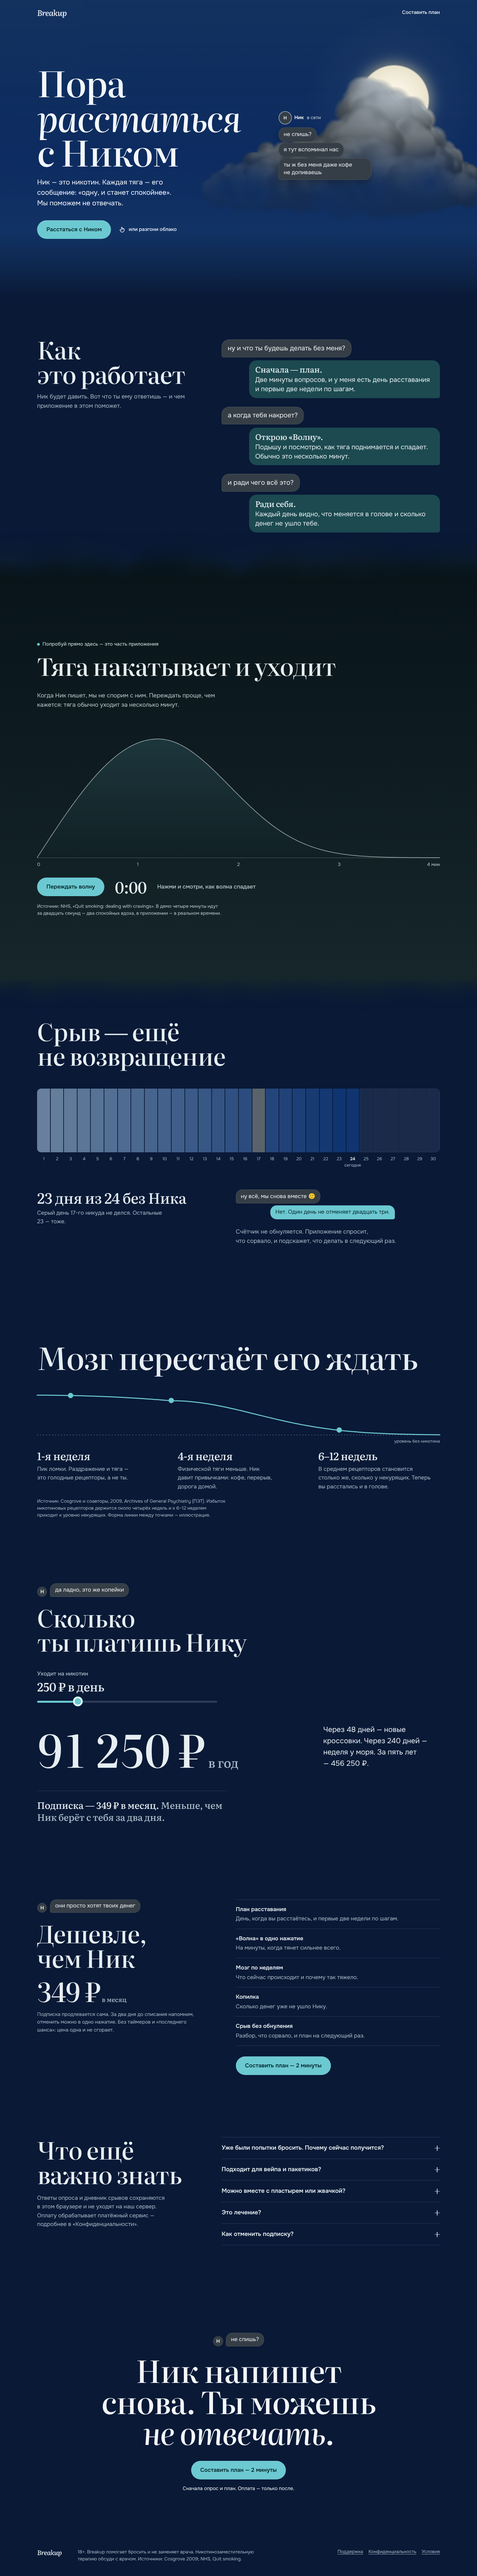
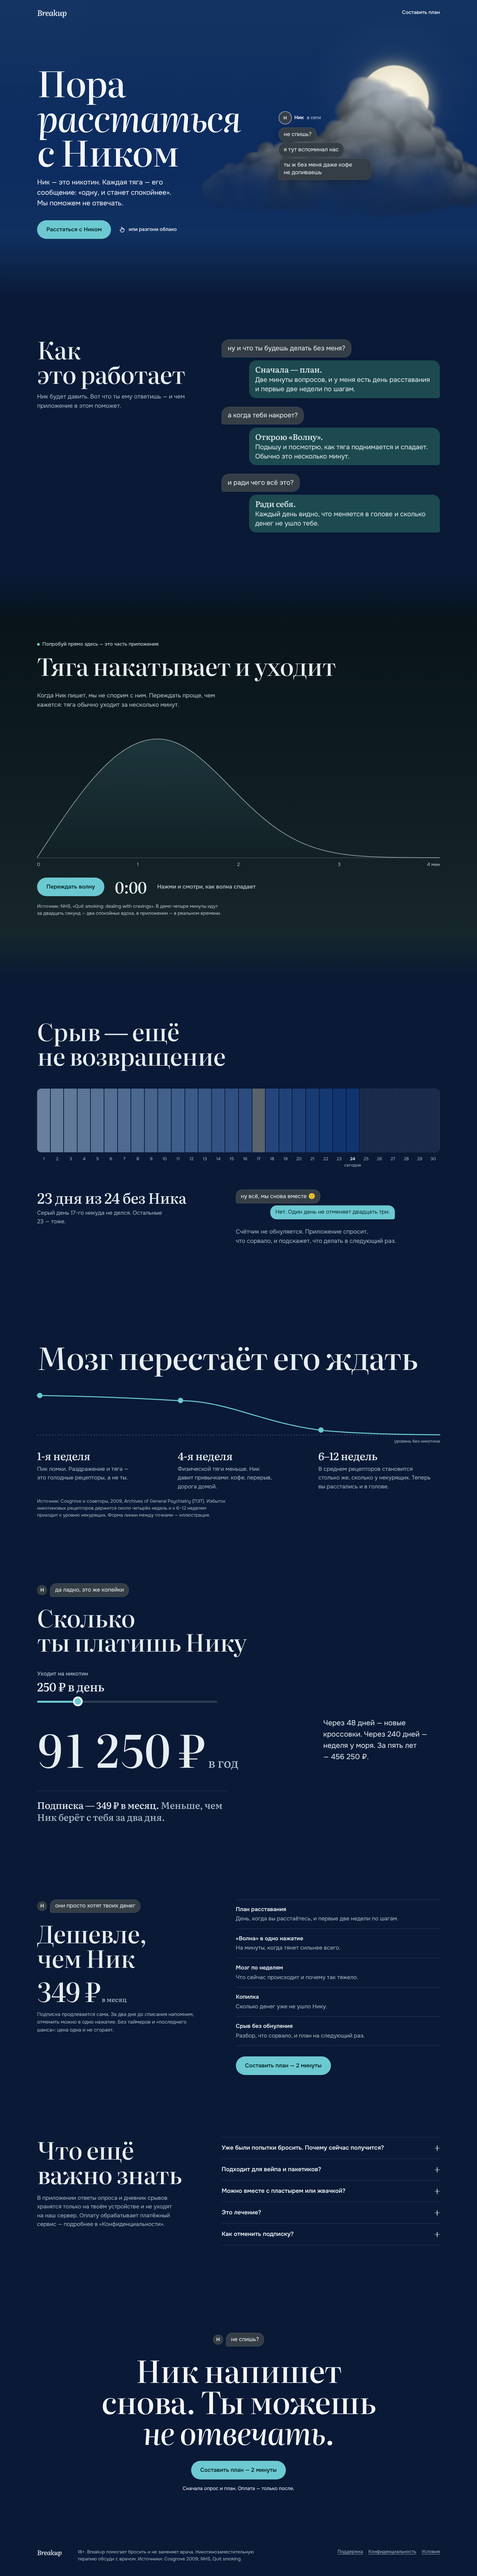
Update v9 review renders
Claude-Session: https://claude.ai/code/session_01CKqe4UyzFgn5AFv8yWGEaJ

diff --git a/design/directions/v8.html b/design/directions/v8.html
@@ -191,7 +191,7 @@ header.top .wrap{display:flex;justify-content:space-between;align-items:center;h
 .rv.seen{opacity:1;transform:none}
 
 /* Ник вклинивается в разговор: реплика с именем, сначала «печатает» */
-.nick-say{display:flex;align-items:flex-end;gap:.55rem;margin-bottom:1.5rem;opacity:0;transform:translateY(6px);transition:opacity .22s var(--ease-out),transform .22s var(--ease-out)}
+.nick-say{display:flex;align-items:center;gap:.55rem;margin-bottom:1.5rem;opacity:0;transform:translateY(6px);transition:opacity .22s var(--ease-out),transform .22s var(--ease-out)}
 .nick-say.on{opacity:1;transform:none}
 .nick-say .av{width:1.9rem;height:1.9rem;font-size:.9375rem;box-shadow:none}
 .nick-say .msg{background:var(--nick);color:var(--nick-text);border-radius:1.2rem 1.2rem 1.2rem .35rem;padding:.55rem .95rem;font-size:1.0625rem;line-height:1.35;box-shadow:inset 0 0 0 1px var(--nick-ring);min-height:2.5rem;display:flex;align-items:center}
@@ -216,7 +216,7 @@ input[type=range]:focus-visible::-moz-range-thumb{box-shadow:0 0 0 2px var(--sky
 /* ── Как это работает ── */
 .how-h{max-width:18ch}
 .how-grid{display:grid;grid-template-columns:minmax(0,5fr) minmax(0,7fr);gap:2.5rem clamp(2.5rem,6vw,6rem);align-items:start}
-.how-side{position:sticky;top:6rem}
+.how-side{position:sticky;top:6rem;align-self:start}
 .talk{display:flex;flex-direction:column;gap:.6rem;padding-top:.5rem}
 @media (max-width:860px){.how-grid{grid-template-columns:minmax(0,1fr)}.how-side{position:static}}
 .talk p{max-width:min(36rem,88%);padding:.8rem 1.15rem;font-size:clamp(1.0625rem,1.4vw,1.25rem);line-height:1.4;text-wrap:pretty}
@@ -229,10 +229,8 @@ input[type=range]:focus-visible::-moz-range-thumb{box-shadow:0 0 0 2px var(--sky
 .steps p{color:var(--muted);margin-top:.6rem;max-width:22rem;text-wrap:pretty}
 
 /* ── Волна ── */
-.calm{color:var(--calm-text);position:relative;background:linear-gradient(in oklab 180deg,var(--storm-top),var(--storm-low));padding-block:clamp(9rem,14vw,12rem)}
+.calm{color:var(--calm-text);position:relative;background:linear-gradient(in oklab 180deg,var(--sky-wash) 0,var(--storm-top) clamp(7rem,10vw,10rem),var(--storm-low) calc(100% - clamp(7rem,10vw,10rem)),var(--sky-wash) 100%);padding-block:clamp(9rem,14vw,12rem)}
 .calm .sub,.calm .src{color:var(--calm-muted)}
-.bank{position:absolute;left:0;right:0;bottom:calc(100% - 1.5rem);width:100%;height:10rem;pointer-events:none;display:block}
-.bank-out{bottom:auto;top:calc(100% - 1.5rem);height:7rem}
 .wave-head{display:grid;gap:1.25rem}.wave-head .sub{max-width:34rem}
 .try{display:inline-flex;align-items:center;gap:.5rem;font-size:.9375rem;font-weight:500;color:var(--calm-muted);margin-bottom:1rem}
 .try::before{content:"";width:.5rem;height:.5rem;border-radius:50%;background:var(--calm-line)}
@@ -292,7 +290,7 @@ input[type=range]:focus-visible::-moz-range-thumb{box-shadow:0 0 0 2px var(--sky
 .year .per{font-size:.28em;letter-spacing:-.01em;margin-left:.3em;color:var(--muted)}
 .year-row{display:grid;grid-template-columns:auto minmax(0,22rem);gap:1rem clamp(2rem,4vw,4rem);align-items:end}
 @media (max-width:1100px){.year-row{grid-template-columns:minmax(0,1fr)}}
-.year-note{font-size:clamp(1.125rem,1.6vw,1.375rem);margin-top:1.25rem;max-width:40rem;text-wrap:pretty}
+.year-note{font-size:clamp(1.125rem,1.6vw,1.375rem);margin:0 0 clamp(.6rem,1.4vw,1.4rem);align-self:end;max-width:40rem;text-wrap:pretty}
 .bridge{margin-top:clamp(2.5rem,5vw,4rem);padding-top:1.5rem;border-top:1px solid var(--rule);font:500 clamp(1.375rem,2.1vw,1.75rem)/1.3 var(--f-display);letter-spacing:-.01em;max-width:36rem;text-wrap:pretty}
 .bridge em{font-style:normal;color:var(--muted)}
 
@@ -410,10 +408,8 @@ dialog.plan.in::backdrop{background:rgba(6,36,63,.28)}
   .actions > div{flex-direction:column;align-items:flex-start;gap:.75rem}
   .b{font-size:.9375rem;padding:.5rem .8rem;max-width:80%}
   .wave-head,.slip-row,.price,.faq-grid{grid-template-columns:minmax(0,1fr)}
-  .bank{height:6rem;bottom:calc(100% - 1rem)}
-  .bank-out{bottom:auto;top:calc(100% - 1rem);height:4.5rem}
-  .calm{padding-bottom:6rem}
-  .calm{padding-top:6rem}
+  .calm{padding-bottom:8.5rem}
+  .calm{padding-top:8.5rem}
   .steps,.weeks{grid-template-columns:minmax(0,1fr);gap:2rem}
   .wave-ctl{grid-template-columns:auto 1fr}
   .wave-ctl .ride{grid-column:1/-1;order:3;width:100%}
@@ -507,8 +503,6 @@ dialog.plan.in::backdrop{background:rgba(6,36,63,.28)}
 </section>
 
 <section class="calm section gutter" aria-labelledby="w-h" data-sky="pale">
-  <canvas class="bank" id="bank" aria-hidden="true"></canvas>
-  <canvas class="bank bank-out" id="bank-out" aria-hidden="true"></canvas>
   <div class="wrap">
     <div class="wave-head rv">
       <div><p class="try">Попробуй прямо здесь — это часть приложения</p><h2 class="h2" id="w-h">Тяга накатывает и&nbsp;уходит</h2></div>
@@ -602,7 +596,7 @@ dialog.plan.in::backdrop{background:rgba(6,36,63,.28)}
   <div class="wrap faq-grid">
     <div class="rv">
       <h2 class="h2" id="q-h">Что ещё важно знать</h2>
-      <p class="privacy">Ответы опроса и&nbsp;дневник срывов сохраняются в&nbsp;этом браузере и&nbsp;не&nbsp;уходят на наш сервер. Оплату обрабатывает платёжный сервис — подробнее в&nbsp;«Конфиденциальности».</p>
+      <p class="privacy">В&nbsp;приложении ответы опроса и&nbsp;дневник срывов хранятся только на&nbsp;твоём устройстве и&nbsp;не&nbsp;уходят на наш сервер. Оплату обрабатывает платёжный сервис — подробнее в&nbsp;«Конфиденциальности».</p>
     </div>
     <div class="faq rv">
       <details><summary>Уже были попытки бросить. Почему сейчас получится?<i aria-hidden="true"></i></summary><p>Попыток бывает много, и&nbsp;это нормально. Здесь срыв не&nbsp;обнуляет счётчик, а&nbsp;помогает понять, что именно сорвало, — и&nbsp;подготовиться к&nbsp;этому моменту в&nbsp;следующий раз.</p></details>
@@ -1023,24 +1017,6 @@ ride.addEventListener('click', () => {
   waveRaf = requestAnimationFrame(wStep);
 });
 
-/* ── Гряда смога над «Волной»: та же погода, что у Ника ── */
-const bank = document.getElementById('bank');
-function drawBank(){ paintBank(bank, css('--storm-top'), css('--storm-low'), 41, false); paintBank(document.getElementById('bank-out'), css('--storm-low'), css('--storm-low'), 77, true); }
-function paintBank(bank, top, lit, seed, flip){
-  const W = bank.clientWidth, H = bank.clientHeight; bank.width = W; bank.height = H; const x = bank.getContext('2d'); x.clearRect(0, 0, W, H);
-  if (flip) { x.translate(0, H); x.scale(1, -1); }
-  let q = seed; const r = () => (q = q * 16807 % 2147483647) / 2147483647, k = Math.min(1, H / 160);
-  // Туман, а не клубы: крупные мягкие пятна в два слоя глубины, центр каждого не выше 40% радиуса от линии гряды
-  const blob = (cx, cy, rad, col, a) => { const g = x.createRadialGradient(cx, cy, 0, cx, cy, rad); g.addColorStop(0, col); g.addColorStop(.35, col + '8c'); g.addColorStop(1, col + '00'); x.globalAlpha = a; x.fillStyle = g; x.fillRect(cx - rad, cy - rad, rad * 2, rad * 2); };
-  for (const [col, a, rmin, rvar, step] of [[lit, .5, 110, 70, 150], [top, .9, 80, 60, 110]]) {
-    // Неровный шаг (кучнее и реже) и разброс размеров по квадрату случайного — без сетки, которую видит глаз
-    const R0 = rmin * k; let cx = -step * k * r();
-    while (cx < W + rmin * k) { const t = r(), rad = R0 * (.7 + .6 * r()) + t * t * rvar * 1.6 * k, cy = H - rad * (.12 + r() * .3); blob(cx, cy, rad, col, a * (.8 + .2 * r())); cx += step * k * (.35 + r() * 1.15); } }
-  x.globalAlpha = 1; x.globalCompositeOperation = 'destination-in'; const m = x.createLinearGradient(0, 0, 0, Math.min(H, 120)); m.addColorStop(0, 'rgba(0,0,0,0)'); m.addColorStop(1, '#000'); x.fillStyle = m; x.fillRect(0, 0, W, H);
-  x.globalCompositeOperation = 'source-over'; const g = x.createLinearGradient(0, H * .55, 0, H); g.addColorStop(0, top + '00'); g.addColorStop(1, top); x.fillStyle = g; x.fillRect(0, H * .55, W, H * .45);
-}
-drawBank(); let bkT = 0; addEventListener('resize', () => { clearTimeout(bkT); bkT = setTimeout(drawBank, 150); });
-matchMedia('(prefers-color-scheme: dark)').addEventListener('change', drawBank);
 
 /* ── Деньги ── */
 const rub = new Intl.NumberFormat('ru-RU', { style: 'currency', currency: 'RUB', maximumFractionDigits: 0 });
@@ -1063,7 +1039,12 @@ const bl = document.getElementById('brain-line'), bs = document.getElementById('
 const LV = w => w <= 4 ? 1 - .14 * (w / 4) ** 2 : .86 * Math.exp(-Math.pow((w - 4) / 4.2, 2) * 1.4);
 function brain(){
   const W = bl.clientWidth, H = bl.clientHeight; bs.setAttribute('viewBox', `0 0 ${W} ${H}`);
-  const X = w => w / 12 * W, Y = v => 4 + (H - 8) * (1 - v); let d = '';
+  const Y = v => 4 + (H - 8) * (1 - v); let X = w => w / 12 * W;
+  if (!mobile()) { // точка недели стоит ровно над своей подписью: ось кусочно-линейна между якорями (форма линии — иллюстрация, см. источник)
+    const r0 = bl.getBoundingClientRect().left, L = [...document.querySelectorAll('.weeks li')].map(li => li.getBoundingClientRect().left - r0 + 8);
+    const K = [[0, 0], [1, L[0]], [4, L[1]], [9, L[2]], [12, W]];
+    X = w => { for (let k = 1; k < K.length; k++) if (w <= K[k][0]) { const [a, xa] = K[k - 1], [b, xb] = K[k]; return xa + (xb - xa) * (w - a) / (b - a); } return W; }; }
+  let d = '';
   for (let w = 0; w <= 12.001; w += .1) d += (w ? 'L' : 'M') + X(w).toFixed(1) + ',' + Y(LV(w)).toFixed(1);
   bs.innerHTML = '<line class="base" x1="0" x2="' + W + '" y1="' + Y(0) + '" y2="' + Y(0) + '"/><path d="' + d + '"/>';
   bl.querySelectorAll('.dot').forEach(n => n.remove());
